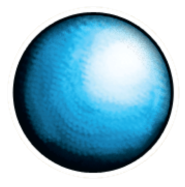
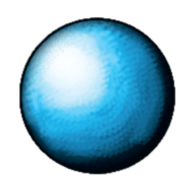
GUI aesthetic fixes, LocalSPController bug fixes and JavaDoc

diff --git a/src/main/java/it/polimi/ingsw/server/VirtualView.java b/src/main/java/it/polimi/ingsw/server/VirtualView.java
@@ -442,6 +442,11 @@ public class VirtualView extends VirtualViewObservable {
     }
 
 
+    /**
+     * Sends a RequestInt message asking to select the desired production type
+     * @param nickname recipient of the message
+     * @return player's choice
+     */
     public int askType(String nickname) {
         ClientHandler client=namesToClient.get(nickname);
         notifyTurnChoice(nickname, " is activating a production");
@@ -452,6 +457,11 @@ public class VirtualView extends VirtualViewObservable {
     }
 
 
+    /**
+     * Sends a RequestInt message asking to select the input resource for production
+     * @param nickname recipient of the message
+     * @return player's choice
+     */
     public Resource askInput(String nickname){
         ClientHandler client=namesToClient.get(nickname);
 
@@ -469,6 +479,11 @@ public class VirtualView extends VirtualViewObservable {
     }
 
 
+    /**
+     * Sends a RequestInt message asking to select the output resource for production
+     * @param nickname recipient of the message
+     * @return player's choice
+     */
     public Resource askOutput(String nickname) {
         ClientHandler client=namesToClient.get(nickname);
 
@@ -486,6 +501,13 @@ public class VirtualView extends VirtualViewObservable {
     }
 
 
+    /**
+     * Sends a BasicProductionInfo message
+     * @param nickname recipient of the message
+     * @param input1 basic production first input
+     * @param input2 basic production second input
+     * @param output basic production output
+     */
     public void sendBasicProduction(String nickname, Resource input1, Resource input2, Resource output) {
         ClientHandler client=namesToClient.get(nickname);
 
@@ -493,6 +515,11 @@ public class VirtualView extends VirtualViewObservable {
     }
 
 
+    /**
+     * Sends a RequestInt message asking to select the space of the development card that the player wants to use for productions
+     * @param nickname recipient of the message
+     * @return player's choice
+     */
     public int askDevCard(String nickname) {
         ClientHandler client=namesToClient.get(nickname);
 
@@ -502,22 +529,53 @@ public class VirtualView extends VirtualViewObservable {
     }
 
 
+    /**
+     * Sends an InitializeGameBoard message
+     * @param crashed indicates if the message is used to restore the game board of a crashed player
+     * @param nickname recipient of the message
+     * @param market is the player's market
+     * @param idCards are the cards IDs of the grid
+     * @param leader leaders belonging to the player
+     * @param active1 indicates if the first leader of the player is active
+     * @param discarded1 indicates if the first leader of the player is discarded
+     * @param active2 indicates if the second leader of the player is active
+     * @param discarded2 indicates if the first leader of the player is discarded
+     */
     public void initializeGameBoard(boolean crashed, String nickname, Market market, ArrayList<Integer> idCards, ArrayList<Integer> leader, boolean active1, boolean discarded1, boolean active2, boolean discarded2) {
         ClientHandler client=namesToClient.get(nickname);
         client.send(new InitializeGameBoard(crashed, market, idCards, leader, active1, discarded1, active2, discarded2));
 
     }
 
+    /**
+     * Sends an UpdateFaithPath message
+     * @param nickname recipient of the message
+     * @param nickToUpdate is the owner of the updated faith path
+     * @param nickPos is the new position in the path
+     * @param isLorenzo indicates if the faith path modification concerns Lorenzo il Magnifico's path
+     */
     public void updateFaithPath(String nickname, String nickToUpdate, int nickPos, boolean isLorenzo){
         ClientHandler client=namesToClient.get(nickname);
         client.send(new UpdateFaithPath(nickToUpdate, nickPos, isLorenzo));
     }
 
+    /**
+     * Sends an UpdatePapalPawn message
+     * @param nickname recipient of the message
+     * @param nickToUpdate is the player who activated a papal pawn
+     * @param pawn is the level of the activated papal pawn
+     */
     public void updatePapalPawn(String nickname, String nickToUpdate, int pawn){
         ClientHandler client=namesToClient.get(nickname);
         client.send(new UpdatePapalPawn(nickToUpdate, pawn));
     }
 
+    /**
+     * Sends a PlayersInfo message with all the nicknames of the lobby
+     * @param nickname recipient of the message
+     * @param playerNumber is the number of player of the lobby
+     * @param nicknames are all the player's nickname of the lobby
+     */
     public void initialInfo(String nickname, int playerNumber, ArrayList<String> nicknames){
         PlayersInfo playersInfo = new PlayersInfo(playerNumber);
         for(String nick: nicknames){
@@ -528,6 +586,11 @@ public class VirtualView extends VirtualViewObservable {
     }
 
 
+    /**
+     * Sends a RequestInt message asking the player which production leader wants to use
+     * @param nickname recipient of the message
+     * @return player's choice
+     */
     public int askLeaderCard(String nickname) {
         ClientHandler client=namesToClient.get(nickname);
 
@@ -537,6 +600,10 @@ public class VirtualView extends VirtualViewObservable {
     }
 
 
+    /**
+     * Sends a SendMessage notifying that a vatican report has been activated, and the players that received points
+     * @param nicknames recipient of the message
+     */
     public void papalPawn(ArrayList<String> nicknames) {
         for(ClientHandler client : namesToClient.values()) {
             if(clientConnected.get(client.getNickname())) {
@@ -549,6 +616,11 @@ public class VirtualView extends VirtualViewObservable {
     }
 
 
+    /**
+     * Sends a RequestInt for the end turn, asking if the player wants to active a leader, to discard a leader or to finish his turn
+     * @param nickname recipient of the message
+     * @return player's choice
+     */
     public int endTurn(String nickname){
         ClientHandler client=namesToClient.get(nickname);
 
@@ -558,6 +630,11 @@ public class VirtualView extends VirtualViewObservable {
     }
 
 
+    /**
+     * Sends a Win message
+     * @param nickname recipient of the message
+     * @param victoryPoints points accumulated by the player
+     */
     public void win(String nickname, int victoryPoints) {
         ClientHandler client=namesToClient.get(nickname);
 
@@ -565,6 +642,11 @@ public class VirtualView extends VirtualViewObservable {
     }
 
 
+    /**
+     * Sends a Lose message
+     * @param nickname recipient of the message
+     * @param victoryPoints points accumulated by the player
+     */
     public void lose(String nickname, int victoryPoints) {
         ClientHandler client=namesToClient.get(nickname);
 
@@ -572,21 +654,43 @@ public class VirtualView extends VirtualViewObservable {
     }
 
 
+    /**
+     * Sends CardsSpaceInfo message used to
+     * @param player recipient of the message
+     * @param nickname is the player who modified his cards spaces
+     * @param level is the level of the card
+     * @param space is the card space
+     * @param idCard is the ID of the new card
+     */
     public void updateDevCardSpace(String player, String nickname, int level, int space, int idCard) {
         ClientHandler client=namesToClient.get(player);
         client.send(new CardsSpaceInfo(nickname, level, space, idCard));
     }
 
+    /**
+     * Sends a GridInfo message
+     * @param player recipient of the message
+     * @param idCards are the IDs of the card in the grid
+     */
     public void updateGrid(String player, ArrayList<Integer> idCards) {
         ClientHandler client=namesToClient.get(player);
         client.send(new GridInfo(idCards));
     }
 
+    /**
+     * Sends ErrorMessage
+     * @param nickname recipient of the message
+     * @param errorType indicates the error type
+     */
     public void sendErrorMessage(String nickname, String errorType){
         ClientHandler client=namesToClient.get(nickname);
         client.send(new ErrorMessage(errorType));
     }
 
+    /**
+     * Sends an error message for invalid input
+     * @param nickname recipient of the message
+     */
     public void sendInvalidInput(String nickname) {
         ClientHandler client=namesToClient.get(nickname);
 
@@ -594,13 +698,20 @@ public class VirtualView extends VirtualViewObservable {
     }
 
 
+    /**
+     * Sends ResetCard message to the selected client
+     * @param nickname recipient of the message
+     * @param pos position of the card that needs to be reset
+     */
     public void resetCard(String nickname, int pos) {
         ClientHandler client=namesToClient.get(nickname);
 
         client.send(new ResetCard(pos));
     }
 
-
+    /**
+     * Sends the end game message
+     */
     public void closeConnection() {
         for(ClientHandler client : namesToClient.values()) {
             client.isEnd(true);
@@ -608,17 +719,29 @@ public class VirtualView extends VirtualViewObservable {
         }
     }
 
+    /**
+     * Calls the server removal of all players
+     */
     public void allClientCrashed() {
         for(ClientHandler client : namesToClient.values()) {
             server.clientDisconnected(client.getNickname());
         }
     }
 
+    /**
+     * This method closes the game of the selected player
+     * @param nickname is the player whose game will be closed
+     */
     public void closeGame(String nickname) {
         server.closeGame(nickname);
     }
 
 
+    /**
+     * Sends the turn status to the player
+     * @param message indicates the turn status
+     * @param nickname recipient of the message
+     */
     public void sendTurnStatus(String message, String nickname){
         if(message.equals("START")){
             notifyPlayingNick(nickname);
@@ -629,11 +752,22 @@ public class VirtualView extends VirtualViewObservable {
         client.send(new TurnStatus(message));
     }
 
+    /**
+     * Sends MarketInfo message with the updated market
+     * @param nickname recipient of the message
+     * @param market is the updated market
+     */
     public void sendUpdateMarket(String nickname, Market market){
         ClientHandler client = namesToClient.get(nickname);
         client.send(new MarketInfo(market));
     }
 
+    /**
+     * Sends a CardsSpaceInfo message to the crashed player, after reconnection
+     * @param nickname recipient of the message
+     * @param space all the development cards spaces that need to be restored after reconnection
+     * @param owner reconnected client
+     */
     public void setDevCardsSpaceForReconnection(String nickname, ArrayList<DevelopmentCardDeck> space, String owner) {
         ClientHandler client = namesToClient.get(nickname);
         for(int i = 0; i < 3; i++){

diff --git a/src/main/java/it/polimi/ingsw/controller/LocalSPController.java b/src/main/java/it/polimi/ingsw/controller/LocalSPController.java
@@ -15,7 +15,6 @@ import it.polimi.ingsw.model.enumeration.BallColor;
 import it.polimi.ingsw.model.enumeration.CardColor;
 import it.polimi.ingsw.model.enumeration.Resource;
 import it.polimi.ingsw.model.gameboard.Ball;
-import it.polimi.ingsw.model.gameboard.DevelopmentCardGrid;
 import it.polimi.ingsw.model.singleplayer.ActionToken;
 import it.polimi.ingsw.server.answer.finalanswer.Lose;
 import it.polimi.ingsw.server.answer.finalanswer.Win;
@@ -287,7 +286,7 @@ public class LocalSPController {
         int type;
 
         do{
-            if(notHasPerformedAnAction =true) notHasPerformedAnAction =false;
+            notHasPerformedAnAction =false;
             handler.handleClient(new RequestInt("TURN","Choose what you want to do in this turn:"));
             answer=getAnswer();
             TurnType turnType = TurnType.fromInteger(answer);
@@ -350,6 +349,12 @@ public class LocalSPController {
                     break;
 
             }
+
+            handler.handleClient(new StorageInfo(gameModel.getPlayer(players.get(0)).getPlayerDashboard().getStorage(),
+                    gameModel.getPlayer(players.get(0)).getPlayerDashboard().getVault(),
+                    gameModel.getPlayer(players.get(0)).getLeaders().get(0), gameModel.getPlayer(players.get(0)).getLeaders().get(1),
+                    players.get(0), false));
+
         } while (answer == TurnType.toInteger(TurnType.ACTIVE_LEADER) || answer == TurnType.toInteger(TurnType.DISCARD_LEADER) || notHasPerformedAnAction);
 
         notHasPerformedAnAction =false;
@@ -358,7 +363,7 @@ public class LocalSPController {
         answer=getAnswer();
 
         while(answer == TurnType.toInteger(TurnType.ACTIVE_LEADER) || answer == TurnType.toInteger(TurnType.DISCARD_LEADER) ) {
-            if (answer == 1) {
+            if (answer == TurnType.toInteger(TurnType.ACTIVE_LEADER)) {
                 handler.handleClient(new ActiveLeader("Which leader do you want to activate?", gameModel.getPlayer(players.get(0)).getLeaders().idDeck()));
                 pos=getAnswer();
                 if(pos==INVALID) break;
@@ -367,7 +372,7 @@ public class LocalSPController {
                 } catch (InvalidChoiceException e) {
                     handler.handleClient(new ErrorMessage("ACTIVE_LEADER"));
                     handler.handleClient(new ResetCard(gameModel.getPlayer(players.get(0)).getLeaders().get(pos - 1).getCardID()));                }
-            } else {
+            } else if (answer == TurnType.toInteger(TurnType.DISCARD_LEADER)){
                 handler.handleClient(new DiscardLeader("Which leader do you want to discard?", gameModel.getPlayer(players.get(0)).getLeaders().idDeck()));
                 pos=getAnswer();
                 if(pos==INVALID) break;
@@ -381,7 +386,6 @@ public class LocalSPController {
                 } catch (InvalidChoiceException e) {
                     handler.handleClient(new ErrorMessage("DISCARD_LEADER"));
                     handler.handleClient(new ResetCard(gameModel.getPlayer(players.get(0)).getLeaders().get(pos - 1).getCardID()));
-                    localChooseTurn();
                 }
             }
             handler.handleClient(new RequestInt("END","What do you want to do?\n1) Active Leader\n2) Discard Leader\n3) End turn"));
@@ -596,11 +600,11 @@ public class LocalSPController {
         ProductionType productionType = ProductionType.fromInteger(type);
         switch (Objects.requireNonNull(productionType)) {
             case BASIC:
-                handler.handleClient(new RequestInt("INPUT","Choose the input:\n1) COIN\n2) SERVANT\n3) SHIELD\n4) STONE"));
+                handler.handleClient(new RequestInt("INPUT","Choose the input:\n1) COIN\n2) STONE\n3) SHIELD\n4) SERVANT"));
                 Resource input1 = parser(getAnswer());
-                handler.handleClient(new RequestInt("INPUT","Choose the input:\n1) COIN\n2) SERVANT\n3) SHIELD\n4) STONE"));
+                handler.handleClient(new RequestInt("INPUT","Choose the input:\n1) COIN\n2) STONE\n3) SHIELD\n4) SERVANT"));
                 Resource input2 = parser(getAnswer());
-                handler.handleClient(new RequestInt("OUTPUT","Choose the output:\n1) COIN\n2) SERVANT\n3) SHIELD\n4) STONE"));
+                handler.handleClient(new RequestInt("OUTPUT","Choose the output:\n1) COIN\n2) STONE\n3) SHIELD\n4) SERVANT"));
                 Resource output = parser(getAnswer());
                 gameModel.getPlayer(players.get(0)).getPlayerDashboard().getDevCardsSpace().setInputBasicProduction(input1, input2);
                 gameModel.getPlayer(players.get(0)).getPlayerDashboard().getDevCardsSpace().setOutputBasicProduction(output);
@@ -663,9 +667,9 @@ public class LocalSPController {
     public Resource parser(int answer){
         switch(answer) {
             case 1 : return Resource.COIN;
-            case 2 : return Resource.SERVANT;
+            case 2 : return Resource.STONE;
             case 3 : return Resource.SHIELD;
-            case 4 : return Resource.STONE;
+            case 4 : return Resource.SERVANT;
             default : return null;
         }
     }

diff --git a/src/main/java/it/polimi/ingsw/controller/TurnController.java b/src/main/java/it/polimi/ingsw/controller/TurnController.java
@@ -177,7 +177,7 @@ public class TurnController {
 
         if(clientConnected.get(players.get(player))) {
             do {
-                if (notHasPerformedAnAction = true) notHasPerformedAnAction = false;
+                notHasPerformedAnAction = false;
                 answer = view.chooseTurn(players.get(player));
                 TurnType turnType = TurnType.fromInteger(answer);
                 switch (Objects.requireNonNull(turnType)) {
